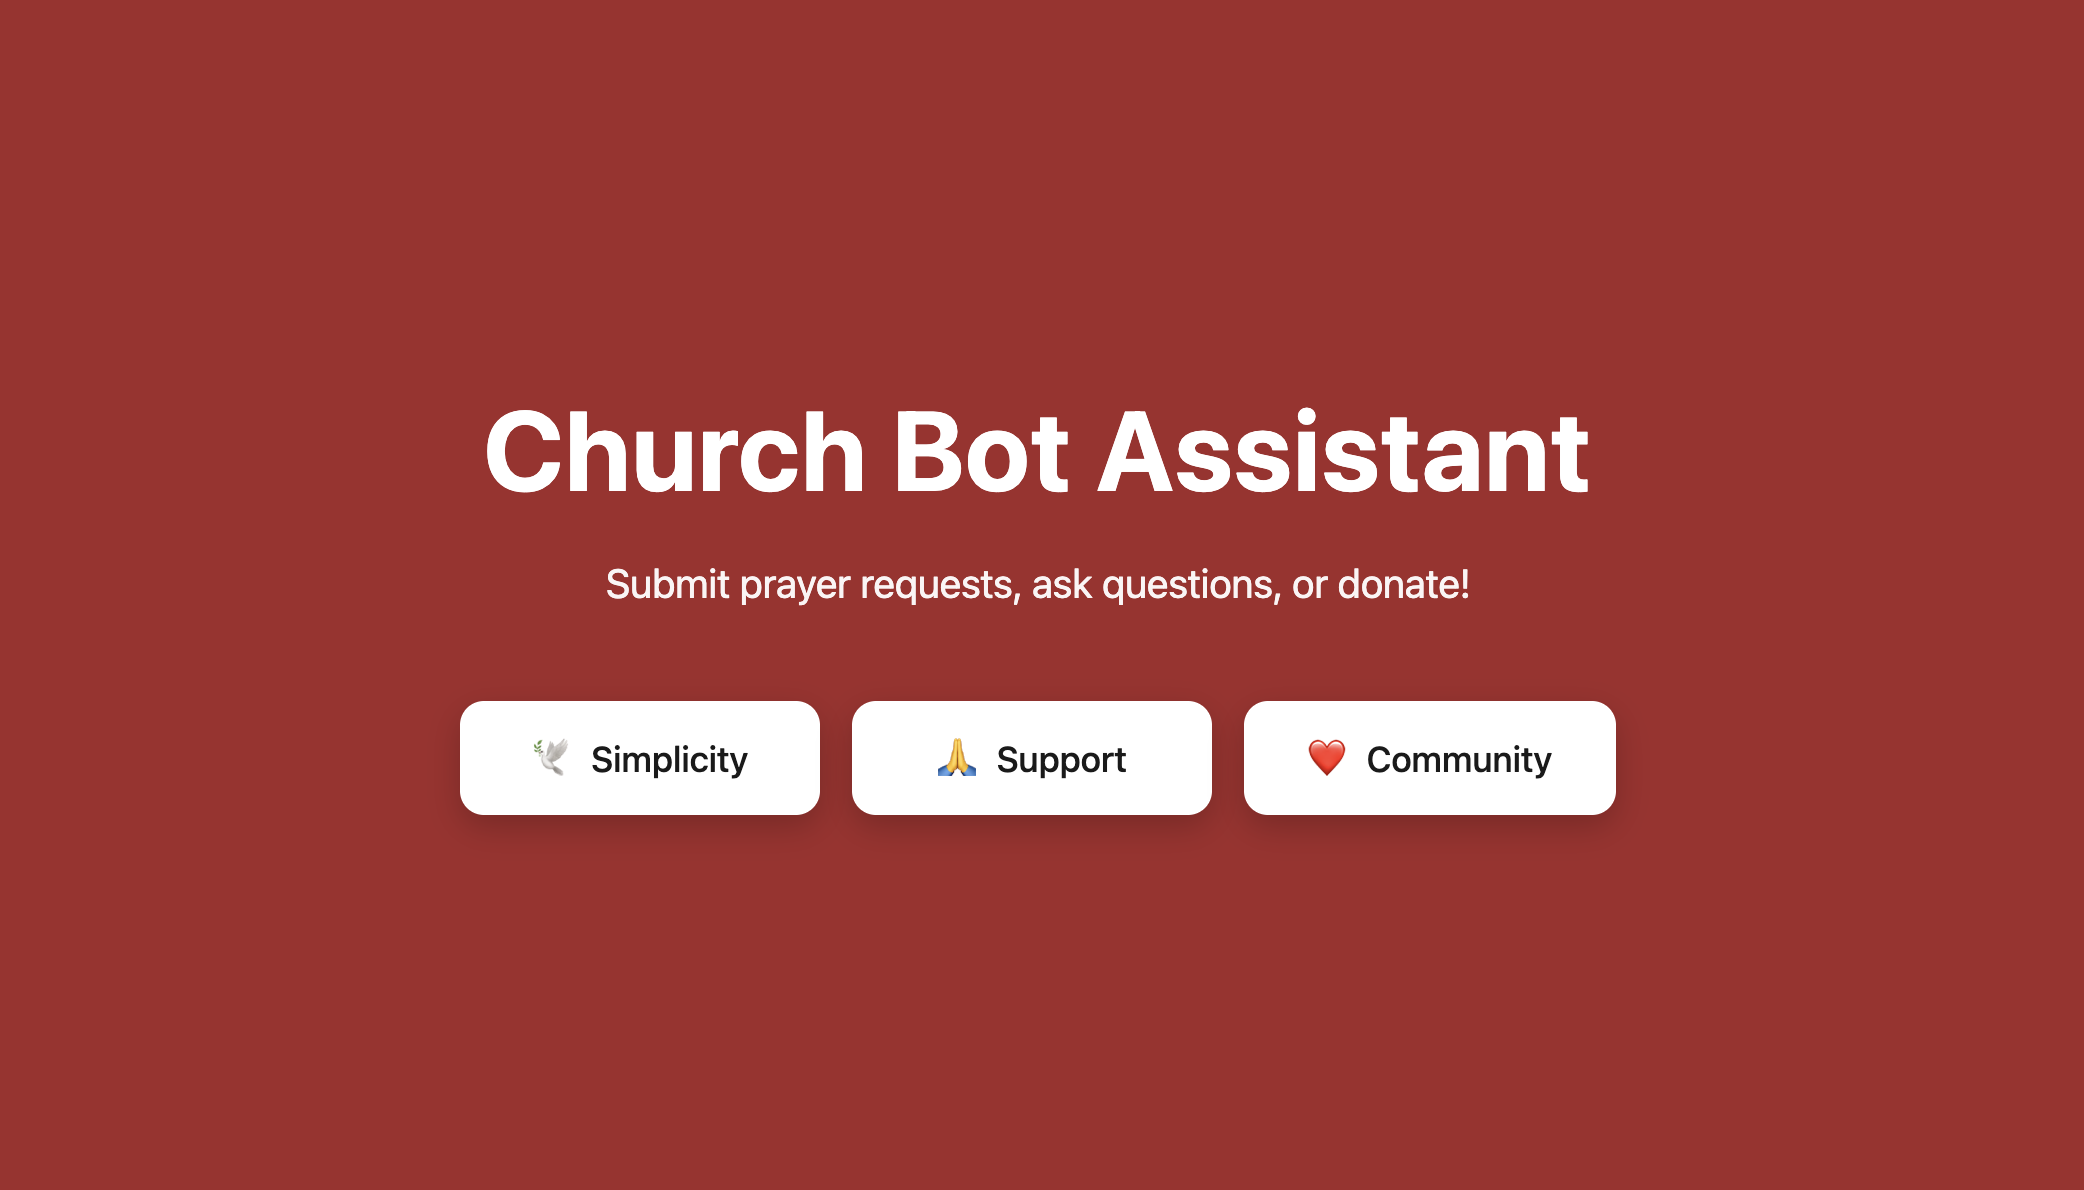
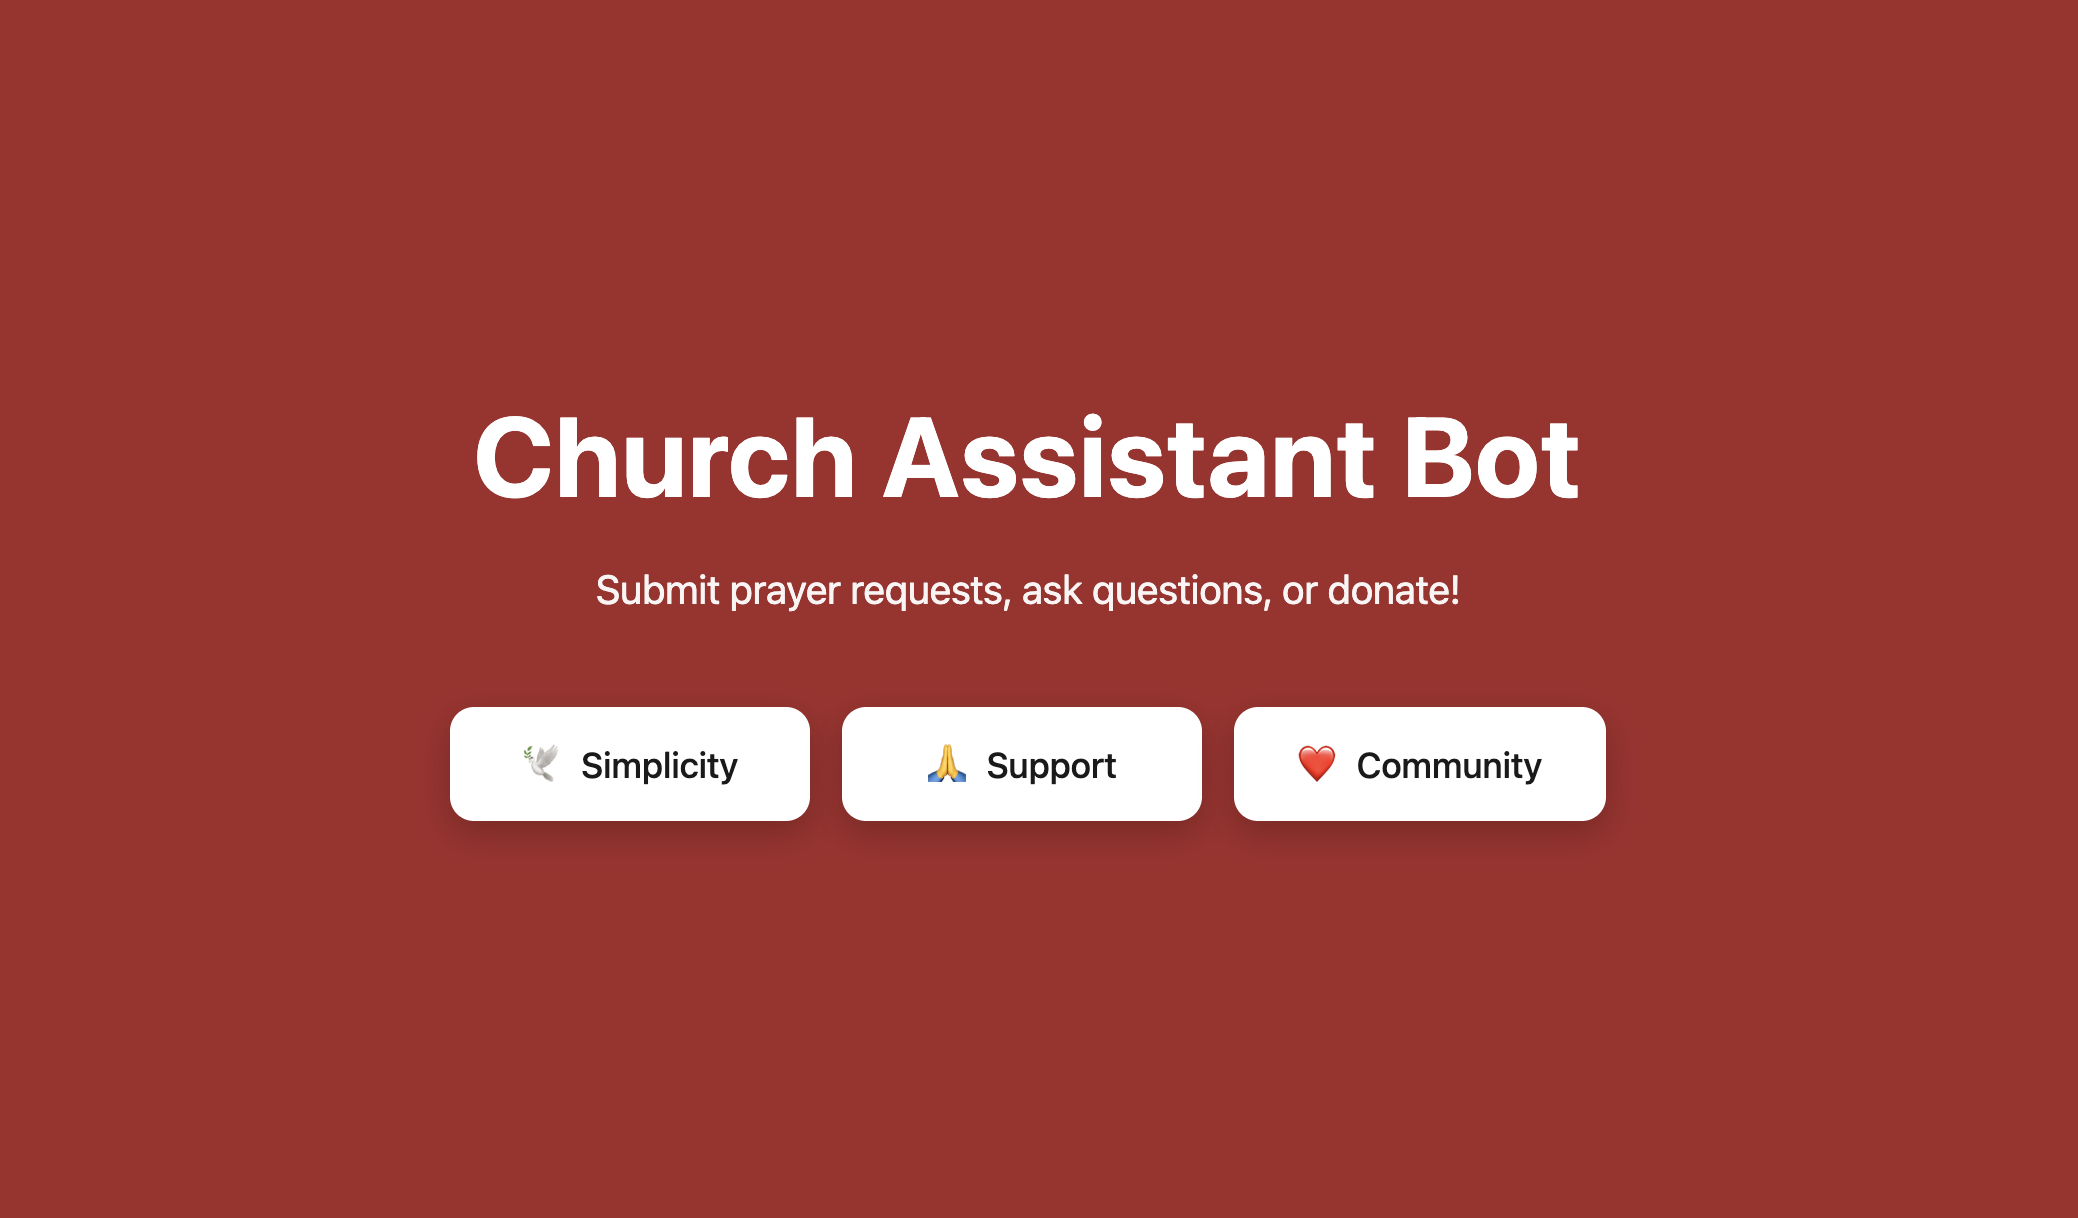
end the vds-bot.html + cool pics

Changed region(s): [[0.2156, 0.5597, 0.8008, 0.684], [0.2156, 0.342, 0.77, 0.4353], [0.2772, 0.4664, 0.7084, 0.5286]]

diff --git a/frontend/index.html b/frontend/index.html
@@ -206,7 +206,7 @@
                             <span class="px-3 py-1 text-xs font-medium text-slate-200 bg-dark-800 border border-dark-700 rounded-full shadow-inner">Python</span>
                             <span class="px-3 py-1 text-xs font-medium text-slate-200 bg-dark-800 border border-dark-700 rounded-full shadow-inner">Aiogram</span>
                         </div>
-                        <h3 class="text-2xl font-bold text-white mb-3">Church Bot Assistant</h3>
+                        <h3 class="text-2xl font-bold text-white mb-3">Church Assistant Bot</h3>
                         <p class="text-slate-300 mb-6 flex-1 leading-relaxed">
                             A church Telegram bot built for user convenience, providing a clear and simple interface for submitting prayer requests or making donations.
                         </p>